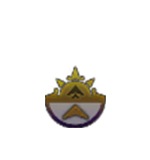
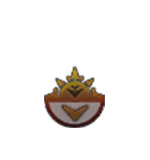
Fully implement world time tracker

Changed region(s): [[0.2933, 0.4062, 0.72, 0.8125]]

diff --git a/HunterPie/GUI/Widgets/HealthWidget/PlayerHealth.xaml b/HunterPie/GUI/Widgets/HealthWidget/PlayerHealth.xaml
@@ -9,7 +9,7 @@
     <Grid Height="98" VerticalAlignment="Top" HorizontalAlignment="Left" Width="468">
 
         <StackPanel Margin="60,10,0,0" Height="20" VerticalAlignment="Top" Orientation="Horizontal">
-            <TextBlock RenderOptions.ClearTypeHint="Enabled" Text="{Binding ElementName=PlayerHealthComponent, Path=PlayerName}" VerticalAlignment="Top" Foreground="#FFDADADA" FontSize="14" FontFamily="Roboto, Segoe UI, Yu Gothic UI" Height="20" HorizontalAlignment="Left">
+            <TextBlock RenderOptions.ClearTypeHint="Enabled" Text="{Binding ElementName=PlayerHealthComponent, Path=PlayerName, FallbackValue='Lv.9999 UwU'}" VerticalAlignment="Top" Foreground="#FFDADADA" FontSize="14" Height="20" HorizontalAlignment="Left" FontFamily="Roboto, Segoe UI, Yu Gothic UI">
                 <TextBlock.Effect>
                     <DropShadowEffect RenderingBias="Quality" ShadowDepth="0" Direction="0"/>
                 </TextBlock.Effect>
@@ -49,7 +49,7 @@
         </parts:HealthBar>
 
         <Image Source="pack://siteoforigin:,,,/HunterPie.Resources/UI/HUD/mr_time_background.png" HorizontalAlignment="Left" Width="57" Height="60" VerticalAlignment="Top" Margin="2,1,0,0"/>
-        <Image Source="pack://siteoforigin:,,,/HunterPie.Resources/UI/HUD/mr_time_night.png" HorizontalAlignment="Left" Width="57" Height="60" VerticalAlignment="Top" Margin="2,1,0,0"/>
+        <Image Source="{Binding ElementName=PlayerHealthComponent, Path=DayTimeIcon}" HorizontalAlignment="Left" Width="57" Height="60" VerticalAlignment="Top" Margin="2,1,0,0"/>
         <Image Source="pack://siteoforigin:,,,/HunterPie.Resources/UI/HUD/mr_laurel_gold.png" HorizontalAlignment="Left" Width="57" Height="60" VerticalAlignment="Top" Margin="2,1,0,0" OpacityMask="#B2000000"/>
 
     </Grid>

diff --git a/HunterPie/GUI/Widgets/HealthWidget/PlayerHealth.xaml.cs b/HunterPie/GUI/Widgets/HealthWidget/PlayerHealth.xaml.cs
@@ -3,6 +3,7 @@ using System.Windows;
 using System.Windows.Threading;
 using HunterPie.Core;
 using HunterPie.Core.Events;
+using HunterPie.Core.Enums;
 
 namespace HunterPie.GUI.Widgets.HealthWidget
 {
@@ -21,6 +22,14 @@ namespace HunterPie.GUI.Widgets.HealthWidget
         }
         public static readonly DependencyProperty PlayerNameProperty =
             DependencyProperty.Register("PlayerName", typeof(string), typeof(PlayerHealth));
+
+        public string DayTimeIcon
+        {
+            get { return (string)GetValue(DayTimeIconProperty); }
+            set { SetValue(DayTimeIconProperty, value); }
+        }
+        public static readonly DependencyProperty DayTimeIconProperty =
+            DependencyProperty.Register("DayTimeIcon", typeof(string), typeof(PlayerHealth));
 
         public PlayerHealth(Game ctx)
         {
@@ -72,6 +81,7 @@ namespace HunterPie.GUI.Widgets.HealthWidget
 
         private void HookEvents()
         {
+            gContext.OnWorldDayTimeUpdate += OnWorldDayTimeUpdate;
             Context.OnHealthUpdate += OnHealthUpdate;
             Context.OnMaxHealthUpdate += OnMaxHealthUpdate;
             Context.OnHealHealth += OnHealHealth;
@@ -84,6 +94,7 @@ namespace HunterPie.GUI.Widgets.HealthWidget
 
         public void UnhookEvents()
         {
+            gContext.OnWorldDayTimeUpdate -= OnWorldDayTimeUpdate;
             Context.OnHealthUpdate -= OnHealthUpdate;
             Context.OnMaxHealthUpdate -= OnMaxHealthUpdate;
             Context.OnHealHealth -= OnHealHealth;
@@ -92,6 +103,31 @@ namespace HunterPie.GUI.Widgets.HealthWidget
             Context.OnMaxStaminaUpdate -= OnMaxStaminaUpdate;
             Context.OnAilmentUpdate -= OnAilmentUpdate;
             Context.OnLevelChange += OnLevelChange;
+        }
+
+        private void OnWorldDayTimeUpdate(object source, WorldEventArgs args)
+        {
+            Dispatcher.BeginInvoke(DispatcherPriority.Render, new Action(() =>
+            {
+                switch (args.DayTime)
+                {
+                    case DayTime.Morning:
+                        DayTimeIcon = "pack://siteoforigin:,,,/HunterPie.Resources/UI/HUD/mr_time_morning.png";
+                        break;
+                    case DayTime.Afternoon:
+                        DayTimeIcon = "pack://siteoforigin:,,,/HunterPie.Resources/UI/HUD/mr_time_day.png";
+                        break;
+                    case DayTime.Evening:
+                        DayTimeIcon = "pack://siteoforigin:,,,/HunterPie.Resources/UI/HUD/mr_time_evening.png";
+                        break;
+                    case DayTime.Night:
+                        DayTimeIcon = "pack://siteoforigin:,,,/HunterPie.Resources/UI/HUD/mr_time_night.png";
+                        break;
+                    default:
+                        DayTimeIcon = null;
+                        break;
+                }
+            }));
         }
 
         private void OnLevelChange(object source, EventArgs args)

diff --git a/HunterPie/Core/Game.cs b/HunterPie/Core/Game.cs
@@ -249,11 +249,10 @@ namespace HunterPie.Core
             long address = Kernel.Read<long>(Address.BASE + Address.WORLD_DATA_OFFSET);
             float time = Kernel.Read<float>(address + 0x38);
 
-            
-            if (time.IsWithin(0, 4.99f) && time.IsWithin(19, 24))
+            if (time.IsWithin(17, 18.99f))
             {
-                // Night - 19:00 -> 4:59
-                DayTime = DayTime.Night;
+                // Evening - 17:00 -> 18:59
+                DayTime = DayTime.Evening;
             } else if (time.IsWithin(5, 6.99f))
             {
                 // Morning - 5:00 -> 6:59
@@ -264,8 +263,8 @@ namespace HunterPie.Core
                 DayTime = DayTime.Afternoon;
             } else
             {
-                // Evening - 17:00 -> 18:59
-                DayTime = DayTime.Evening;
+                // Night - 19:00 -> 4:59
+                DayTime = DayTime.Night;
             }
             WorldTime = time;
         }
